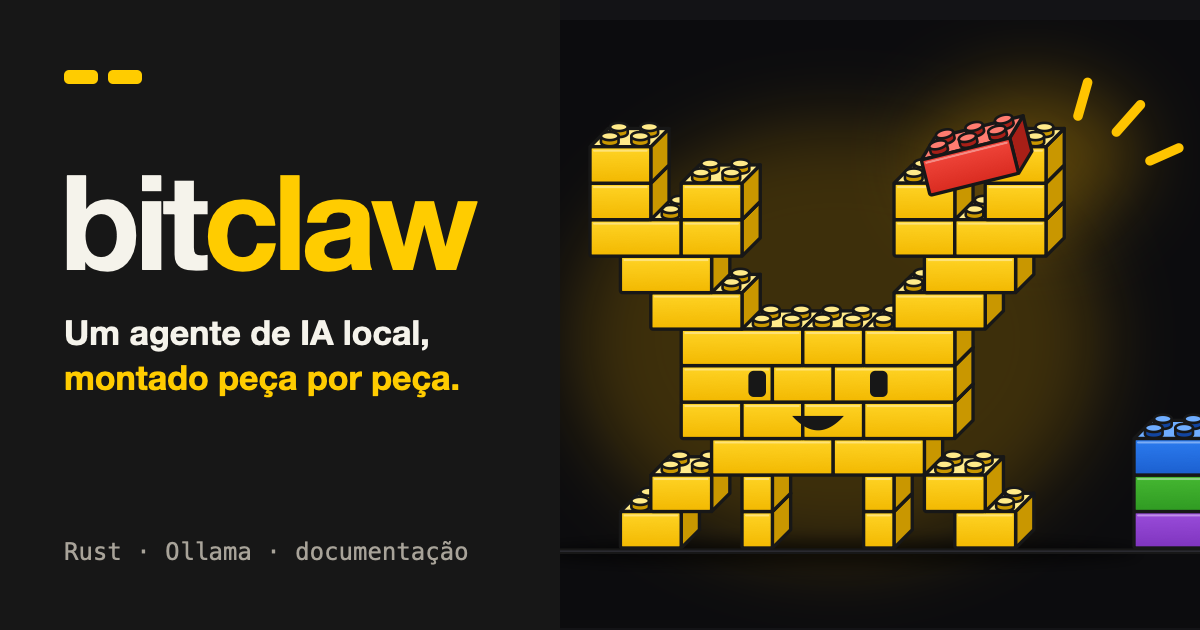
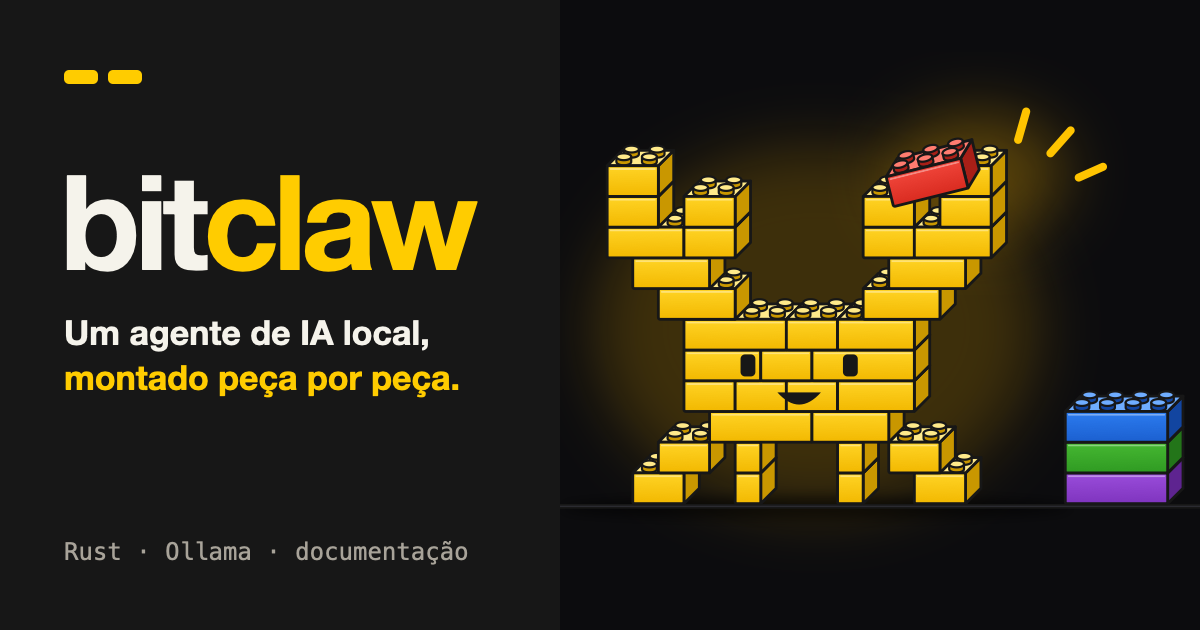
feat(site): use the approved brick crab everywhere and fix the og-image crop
Header, footer, hero and icons use the brick mascot instead of the pixel one. The
og-image shows the whole scene (the stack was cut off) and the icons are rendered
from bitclaw-bricks-dark.svg with room around it.

Changed region(s): [[0.4933, 0.1206, 1.0, 0.8746]]

diff --git a/site/static/css/site.css b/site/static/css/site.css
@@ -63,8 +63,7 @@ code { font-family: var(--mono); }
   border-bottom: 1px solid var(--line);
 }
 .brand { display: flex; align-items: center; gap: 10px; text-decoration: none; }
-.brand-crab { width: 32px; height: 19px; background: #171717; padding: 2px 3px; border-radius: 5px; box-sizing: content-box; color: var(--yellow); }
-.brand-crab rect { fill: var(--yellow); }
+.brand-crab { height: 34px; width: auto; border-radius: 9px; }
 .wordmark { font-weight: 900; font-size: 21px; letter-spacing: -1.2px; }
 .wordmark b { color: var(--amber); font-weight: 900; }
 .top-nav { display: flex; gap: 4px; margin-left: 10px; }
@@ -127,36 +126,13 @@ code { font-family: var(--mono); }
 .copy:hover { background: var(--yellow-light); }
 .hero-copy .small { margin: 12px 0 0; }
 .hero-art { display: flex; flex-direction: column; align-items: center; gap: 14px; }
-.stage { position: relative; width: 100%; max-width: 520px; aspect-ratio: 1.25; background: #171717; border-radius: 28px; display: grid; place-items: center; box-shadow: 0 30px 60px -30px rgba(23,23,23,.6), inset 0 0 0 1px #2c2c30; overflow: hidden; }
-.stage::after { content: ""; position: absolute; left: 8%; right: 8%; bottom: 14%; height: 4px; background: #2a2a2e; border-radius: 4px; }
-.hero-crab { width: 74%; height: auto; margin-bottom: 8%; filter: drop-shadow(0 0 28px rgba(255,204,0,.28)); position: relative; z-index: 1; }
-.hero-crab.small { width: 220px; background: #171717; padding: 22px; border-radius: 20px; margin: 0 auto 20px; display: block; }
+.stage { position: relative; width: 100%; max-width: 560px; aspect-ratio: 1200 / 760; background: #0C0C0E; border-radius: 24px; box-shadow: 0 30px 60px -30px rgba(23,23,23,.6), inset 0 0 0 1px #2c2c30; overflow: hidden; }
+.hero-img { display: block; width: 100%; height: 100%; animation: bob 4s ease-in-out infinite; }
+.hero-crab.small { height: 140px; width: auto; border-radius: 20px; margin: 0 auto 20px; display: block; }
 .caption { font-size: 13px; color: var(--muted); text-align: center; max-width: 420px; margin: 0; }
-.peg { position: absolute; width: 46px; height: 26px; border-radius: 4px; animation: float 6s ease-in-out infinite; }
-.peg::before, .peg::after { content: ""; position: absolute; top: -8px; width: 14px; height: 8px; border-radius: 3px 3px 0 0; background: inherit; filter: brightness(1.12); }
-.peg::before { left: 6px; } .peg::after { right: 6px; }
-.peg.r { background: var(--red); left: 7%; top: 14%; transform: rotate(-12deg); }
-.peg.b { background: var(--blue); right: 8%; top: 22%; animation-delay: -2s; }
-.peg.g { background: var(--green); left: 9%; bottom: 20%; width: 34px; animation-delay: -4s; }
-.peg.p { background: var(--purple); right: 10%; bottom: 17%; animation-delay: -1s; transform: rotate(8deg); }
-@keyframes float { 0%,100% { translate: 0 0; } 50% { translate: 0 -9px; } }
-
-/* caranguejo animado (olho é buraco; a pálpebra cobre o buraco ao piscar) */
-.crab rect { fill: #FFCC00; stroke: #FFCC00; stroke-width: .03; }
-.crab .lid { fill: #FFCC00; opacity: 0; }
-.crab.anim .lid { animation: blink 5s infinite; }
-.crab.anim .body { animation: bob 2.4s ease-in-out infinite; }
-.crab.anim .cl { animation: snapl 4s ease-in-out infinite; }
-.crab.anim .cr { animation: snapr 4s ease-in-out infinite; }
-.crab.anim .p0 { animation: bit 1s steps(1) infinite; }
-.crab.anim .p1 { animation: bit 2s steps(1) infinite; }
-@keyframes blink { 0%,92%,100% { opacity: 0; } 94%,98% { opacity: 1; } }
-@keyframes bob { 0%,100% { transform: translateY(0); } 50% { transform: translateY(.09px); } }
-@keyframes snapl { 0%,70%,100% { transform: translate(0,0); } 76% { transform: translate(.18px,.3px); } 82% { transform: translate(0,0); } 88% { transform: translate(.18px,.3px); } }
-@keyframes snapr { 0%,70%,100% { transform: translate(0,0); } 76% { transform: translate(-.18px,.3px); } 82% { transform: translate(0,0); } 88% { transform: translate(-.18px,.3px); } }
-@keyframes bit { 0% { fill: #FFCC00; } 50% { fill: #FFE477; } }
+@keyframes bob { 0%,100% { transform: translateY(0); } 50% { transform: translateY(-6px); } }
 @media (prefers-reduced-motion: reduce) {
-  .crab.anim *, .peg { animation: none !important; }
+  .hero-img { animation: none !important; }
   html { scroll-behavior: auto; }
 }
 
@@ -216,7 +192,7 @@ code { font-family: var(--mono); }
 .foot-in { max-width: 1160px; margin: 0 auto; padding: 18px 20px 0; display: grid; gap: 6px; }
 .foot-in > div { display: flex; align-items: center; gap: 10px; }
 .foot-in .wordmark b { color: var(--yellow); }
-.foot-crab { width: 32px; height: 19px; }
+.foot-crab { height: 34px; width: auto; border-radius: 9px; }
 .foot-in p { margin: 0; font-size: 14px; color: #BDB8AC; }
 .foot-in a { color: var(--yellow); }
 body.doc .foot { margin-top: 0; }

diff --git a/site/build.py b/site/build.py
@@ -132,46 +132,10 @@ def root_prefix(url: str) -> str:
     return "../" * url.count("/")
 
 
-# --------------------------------------------------------------- caranguejo
-def crab_grid() -> list[list[str]]:
-    """Lê o mapa 10x6 de `assets/bitclaw-crab.svg` (fonte única da arte)."""
-    svg = (ROOT / "assets/bitclaw-crab.svg").read_text()
-    cells = {
-        (int(m[2]) // 24, int(m[1]) // 24)
-        for m in re.finditer(r'x="(\d+)" y="(\d+)" width="24" height="24" fill="#FFCC00"', svg)
-    }
-    return [["#" if (r, c) in cells else "." for c in range(10)] for r in range(6)]
-
-
-def crab_svg(cls: str = "crab", animated: bool = True) -> str:
-    """O caranguejo em pixels como SVG inline; olho é buraco, como na arte aprovada."""
-    grid = crab_grid()
-    pegs = {(0, 3): "p0", (0, 6): "p1"}
-    claws = {"cl": [(0, 0), (0, 1), (1, 0), (1, 1)], "cr": [(0, 8), (0, 9), (1, 8), (1, 9)]}
-    parts = []
-    for r, row in enumerate(grid):
-        for c, v in enumerate(row):
-            if v != "#":
-                continue
-            klass = ""
-            if (r, c) in pegs:
-                klass = f' class="{pegs[(r, c)]}"'
-            elif (r, c) in claws["cl"]:
-                klass = ' class="cl"'
-            elif (r, c) in claws["cr"]:
-                klass = ' class="cr"'
-            elif r == 5:
-                klass = ' class="leg"'
-            parts.append(f'<rect x="{c}" y="{r}" width="1" height="1"{klass}/>')
-    eyes = "".join(
-        f'<rect class="lid" x="{c}" y="2" width="1" height="1"/>' for c in (2, 7)
-    )
-    anim = " anim" if animated else ""
-    return (
-        f'<svg class="crab {cls}{anim}" viewBox="0 0 10 6" role="img" aria-label="BitClaw, caranguejo de peças de montar" '
-        f'shape-rendering="crispEdges" xmlns="http://www.w3.org/2000/svg">'
-        f'<g class="body">{"".join(parts)}{eyes}</g></svg>'
-    )
+# ------------------------------------------------------------------ marca
+def logo(cls: str, prefix: str) -> str:
+    """O caranguejo de peças aprovado (`bitclaw-bricks-dark.svg`), sem pixel art."""
+    return f'<img class="{cls}" src="{prefix}img/bitclaw-bricks-dark.svg" alt="" width="36" height="33">'
 
 
 # ---------------------------------------------------------- Markdown -> HTML
@@ -279,7 +243,7 @@ class Builder:
   <button class="burger" aria-label="Abrir menu" aria-controls="side" data-burger>
     <span></span><span></span><span></span></button>
   <a class="brand" href="{prefix}index.html" aria-label="BitClaw, início">
-    {crab_svg("brand-crab", animated=False)}<span class="wordmark">bit<b>claw</b></span></a>
+    {logo("brand-crab", prefix)}<span class="wordmark">bit<b>claw</b></span></a>
   <nav class="top-nav" aria-label="Principal">
     <a href="{prefix}inicio/filosofia.html"{' aria-current="page"' if current == 'Começar' else ''}>Começar</a>
     <a href="{prefix}guia/prompt.html"{' aria-current="page"' if current == 'Usar' else ''}>Usar</a>
@@ -334,7 +298,7 @@ class Builder:
         return f"""<footer class="foot">
   <div class="studs" aria-hidden="true"><i></i><i></i><i></i><i></i><i></i><i></i><i></i><i></i></div>
   <div class="foot-in">
-    <div>{crab_svg("foot-crab", animated=False)}<span class="wordmark">bit<b>claw</b></span></div>
+    <div>{logo("foot-crab", prefix)}<span class="wordmark">bit<b>claw</b></span></div>
     <p>Um agente de IA local e enxuto, montado peça por peça. Feito em Rust.</p>
     <p class="muted"><a href="{REPO_URL}" rel="noopener">GitHub</a> · <a href="{REPO_URL}/releases" rel="noopener">Releases</a> · <a href="{REPO_URL}/issues" rel="noopener">Issues</a> · <a href="{BLOB}LICENSE" rel="noopener">Licença (PolyForm Noncommercial)</a></p>
   </div>
@@ -462,11 +426,9 @@ class Builder:
     </div>
     <div class="hero-art">
       <div class="stage">
-        {crab_svg("hero-crab")}
-        <span class="peg r" aria-hidden="true"></span><span class="peg b" aria-hidden="true"></span>
-        <span class="peg g" aria-hidden="true"></span><span class="peg p" aria-hidden="true"></span>
+        <img class="hero-img" src="img/bricks-cena.svg" alt="O BitClaw, caranguejo de peças de montar amarelas, encaixando uma peça vermelha na pinça" width="1200" height="760">
       </div>
-      <p class="caption">O mascote do terminal, no navegador: ele pisca, e os dois pinos contam em binário enquanto pensa.</p>
+      <p class="caption">O BitClaw encaixando a próxima peça: o core não muda, o agente novo entra.</p>
     </div>
   </div>
   <div class="studs wide" aria-hidden="true"><i></i><i></i><i></i><i></i><i></i><i></i><i></i><i></i><i></i><i></i><i></i><i></i></div>
@@ -541,7 +503,7 @@ class Builder:
 <body class="home">
 {self.header(prefix)}
 <main id="main"><section class="band"><div class="wrap nf">
-  {crab_svg("hero-crab small")}
+  {logo("hero-crab small", prefix)}
   <h1>404: faltou uma peça.</h1>
   <p>Esta página não existe (ou mudou de lugar).</p>
   <p><a class="btn primary" href="{prefix}index.html">Voltar ao início</a></p>
@@ -576,7 +538,6 @@ class Builder:
         img.mkdir(exist_ok=True)
         for name, src in SVGS.items():
             shutil.copy(ROOT / src, img / name)
-        (img / "favicon.svg").write_text(favicon_svg())
         for src, rel in self.copied_images.items():
             dest = img / rel
             dest.parent.mkdir(parents=True, exist_ok=True)
@@ -595,19 +556,6 @@ class Builder:
         ]
         (self.out / "search-index.json").write_text(json.dumps(index, ensure_ascii=False))
         print(f"{len(self.pages)} páginas + início em {self.out}")
-
-
-def favicon_svg() -> str:
-    grid = crab_grid()
-    rects = "".join(
-        f'<rect x="{c}" y="{r}" width="1" height="1"/>'
-        for r, row in enumerate(grid) for c, v in enumerate(row) if v == "#"
-    )
-    return (
-        '<svg xmlns="http://www.w3.org/2000/svg" viewBox="-1 -1 12 8" shape-rendering="crispEdges">'
-        '<rect x="-1" y="-1" width="12" height="8" rx="1" fill="#171717"/>'
-        f'<g fill="#FFCC00">{rects}</g></svg>'
-    )
 
 
 def main() -> int:

diff --git a/site/tools/render_png.py b/site/tools/render_png.py
@@ -60,6 +60,20 @@ def render(svg_markup: str, width: int, height: int, dest: Path, scale_to: int |
         shutil.copy(png, dest)
 
 
+MASCOT = ROOT / "docs" / "identidade" / "bitclaw-bricks-dark.svg"
+ICON_SIDE = 760  # o mascote (684x624) com folga de ~6% em cada lado
+
+
+def icon_svg() -> str:
+    """O mascote de peças no meio de um quadrado escuro, para favicon e ícones."""
+    w, h, body = inner(MASCOT)
+    ox, oy = (ICON_SIDE - w) / 2, (ICON_SIDE - h) / 2 + 6
+    return (
+        f'<rect width="{ICON_SIDE}" height="{ICON_SIDE}" rx="120" fill="#141416"/>'
+        f'<svg x="{ox}" y="{oy}" width="{w}" height="{h}" viewBox="0 0 {w:g} {h:g}">{body}</svg>'
+    )
+
+
 def crab_cells() -> str:
     s = CRAB.read_text()
     return "".join(
@@ -74,25 +88,33 @@ def main() -> None:
         w, h, body = inner(ROOT / "docs" / "identidade" / f"{name}.svg")
         render(body, int(w), int(h), OUT / "png" / f"{name}.png", scale_to=int(w) * 2 if w < 1000 else int(w))
 
-    # og-image: cena à direita, nome e frase à esquerda
+    # og-image: nome e frase à esquerda; à direita a cena aprovada INTEIRA (caranguejo, peça vermelha,
+    # faíscas e a pilha), dentro de um painel do tamanho dela, sem nada cortado.
     w, h, body = inner(ROOT / "docs" / "identidade" / "bricks-cena.svg")
+    panel_w, panel_h = 640, 630
+    vb_w = 950.0  # largura da cena que cabe no painel (a linha do chão sai pelos lados, de propósito)
+    vb_x = 80.0
+    vb_h = vb_w * panel_h / panel_w
+    vb_y = (h - vb_h) / 2
+    font = "Helvetica Neue, Arial, sans-serif"
     og = (
-        '<rect width="1200" height="630" fill="#131316"/>'
-        '<g transform="translate(470 20) scale(0.8)">'
-        f'<svg width="{w}" height="{h}" viewBox="0 0 {w} {h}">{body}</svg></g>'
-        '<rect width="560" height="630" fill="#171717"/>'
+        '<rect width="1200" height="630" fill="#171717"/>'
         '<g fill="#FFCC00"><rect x="64" y="70" width="34" height="14" rx="5"/><rect x="108" y="70" width="34" height="14" rx="5"/></g>'
-        '<text x="60" y="270" font-family="Helvetica Neue, Arial, sans-serif" font-weight="900" font-size="132" letter-spacing="-6" fill="#F5F3EB">bit<tspan fill="#FFCC00">claw</tspan></text>'
-        '<text x="64" y="345" font-family="Helvetica Neue, Arial, sans-serif" font-weight="700" font-size="34" fill="#F5F3EB">Um agente de IA local,</text>'
-        '<text x="64" y="390" font-family="Helvetica Neue, Arial, sans-serif" font-weight="700" font-size="34" fill="#FFCC00">montado peça por peça.</text>'
-        '<text x="64" y="560" font-family="Menlo, monospace" font-size="24" fill="#A8A399">Rust · Ollama · documentação</text>'
+        f'<text x="60" y="270" font-family="{font}" font-weight="900" font-size="132" letter-spacing="-6" fill="#F5F3EB">bit<tspan fill="#FFCC00">claw</tspan></text>'
+        f'<text x="64" y="345" font-family="{font}" font-weight="700" font-size="34" fill="#F5F3EB">Um agente de IA local,</text>'
+        f'<text x="64" y="390" font-family="{font}" font-weight="700" font-size="34" fill="#FFCC00">montado peça por peça.</text>'
+        f'<text x="64" y="560" font-family="Menlo, monospace" font-size="24" fill="#A8A399">Rust · Ollama · documentação</text>'
+        f'<svg x="{1200 - panel_w}" y="0" width="{panel_w}" height="{panel_h}" viewBox="{vb_x} {vb_y} {vb_w} {vb_h}">'
+        f'<rect x="-2000" y="-2000" width="6000" height="6000" fill="#0C0C0E"/>{body}</svg>'
     )
     render(og, 1200, 630, OUT / "og-image.png")
 
-    # favicons: o caranguejo em pixels (240x144) centrado num quadrado escuro
-    icon = f'<rect width="288" height="288" fill="#171717"/><g transform="translate(24 72)">{crab_cells()}</g>'
-    for name, size in (("favicon-32.png", 32), ("apple-touch-icon.png", 180)):
-        render(icon, 288, 288, OUT / name, scale_to=size)
+    # ícones: o caranguejo de peças (o mesmo da galeria), inteiro, num quadrado com folga ao redor
+    for name, size in (("favicon-32.png", 32), ("apple-touch-icon.png", 180), ("icon-512.png", 512)):
+        render(icon_svg(), ICON_SIDE, ICON_SIDE, OUT / name, scale_to=size)
+    (OUT / "favicon.svg").write_text(
+        f'<svg xmlns="http://www.w3.org/2000/svg" viewBox="0 0 {ICON_SIDE} {ICON_SIDE}">{icon_svg()}</svg>\n'
+    )
     print("PNGs em", OUT)
 
 
